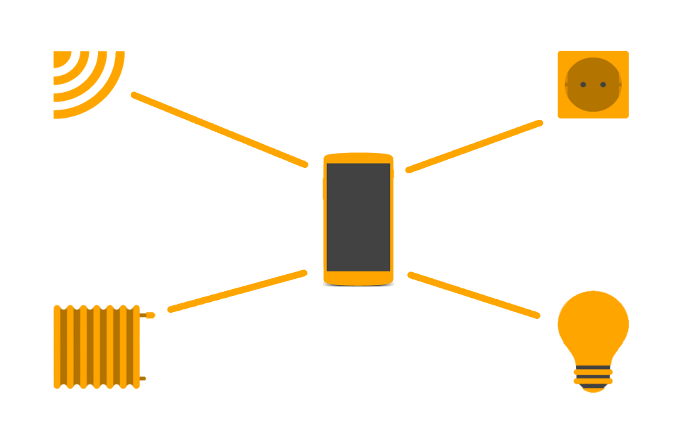
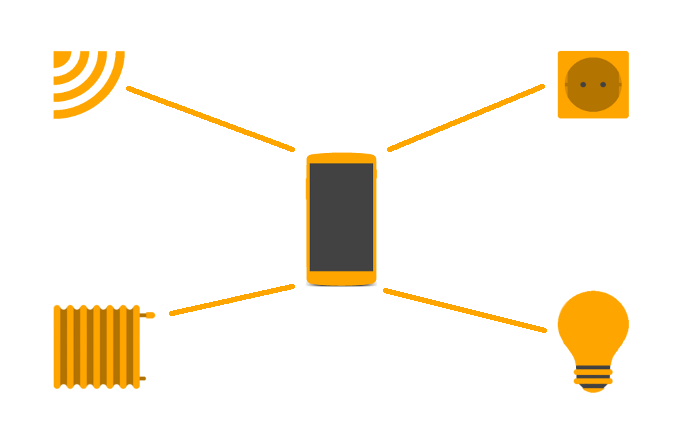
Bilder verbessert; uberflüssiger Selektor entfernt

diff --git a/index.css b/index.css
@@ -149,15 +149,6 @@ a:visited {
 	padding-top: 8.5em;
 }
 
-#rightDouble > p {
-	/*-webkit-user-select: none;      
-	-moz-user-select: none;
-	-ms-user-select: none;
-
-	-o-user-select: none;
-	user-select: none;*/
-}
-
  *, *::after, *::before {
   	box-sizing: border-box;
 }
